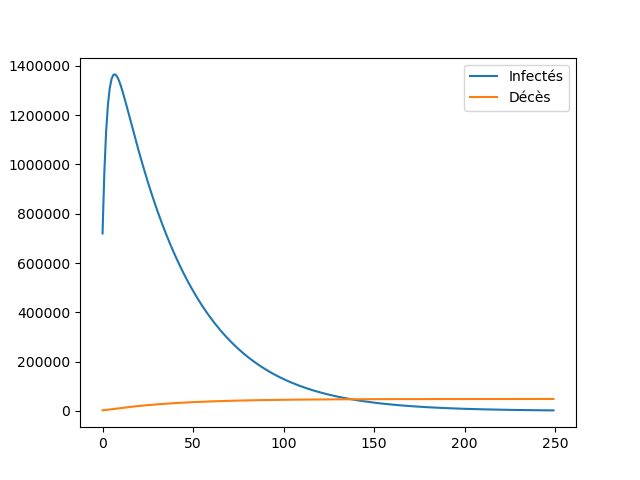
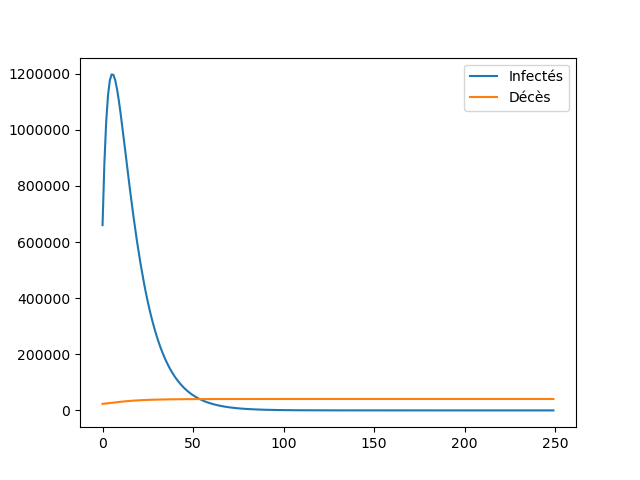
SCIRE

diff --git a/scire.py b/scire.py
@@ -8,7 +8,7 @@ import functools
 # Sain Contaminé Infecté Rétabli
 class SCIRE:
 
-    def __init__(self, S0 = 1, C0 = 0, I0 = 0, r0 = 3.3, v = 5.1, lmbda = 15, mu = 0.01):
+    def __init__(self, S0 = 1, C0 = 0, I0 = 0, r0 = 3.3, v = 5.1, lmbda = 15, mu = 0.005):
         self.S = S0
         self.C = C0
         self.I = I0
